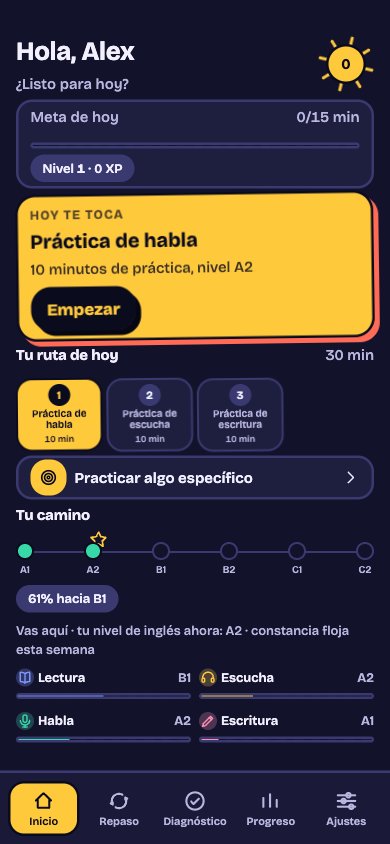
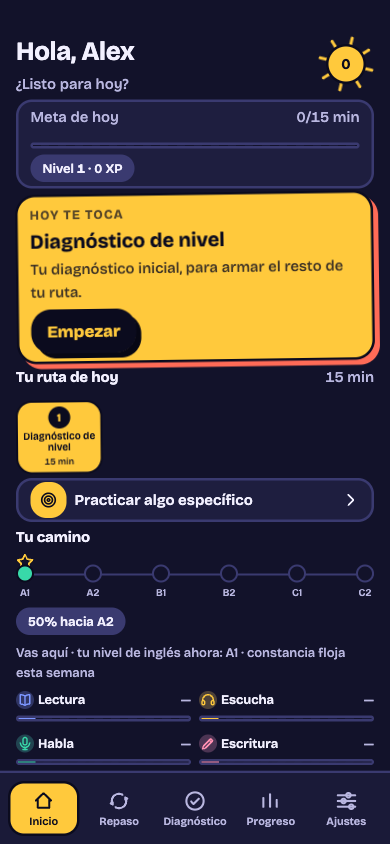
Practicar: pantalla nueva + corrige 10px de desborde en Inicio móvil
Practicar (js/screens/practicar.js): cuadrícula 2x2 escalonada de calcomanías
por habilidad (Lectura azul, Escucha amarillo, Habla menta, Escritura rosa)
con ícono, pastilla de nivel CEFR real y "Última vez: ...". Lectura/Escucha/
Escritura todavía no tienen pantalla propia (Fase C) -- quedan con
aria-disabled y pastilla "Próximamente", sin click, en vez de llevar a un
error. Debajo, filas tocables "Repaso de tarjetas" (vencidas reales) y
"Conversación". Registrada en index.html/sw.js (v22->v23).

Inicio: medí overflow real a 390x844 (10px, violaba "sin scroll") y lo
corregí bajando el padding-bottom reservado de la pantalla de --e-3 (12px) a
2px -- nav.tabs ya trae su propio padding abajo, era espacio duplicado.
Verificado en 0 también 1440x900/1280x720 (sin regresión).

Changed region(s): [[0.0308, 0.2464, 0.9846, 0.9242]]

diff --git a/js/screens/practicar.js b/js/screens/practicar.js
@@ -1,0 +1,114 @@
+/* Pantalla Practicar -- rediseño "Calcomanías oscuro" (Fase B). Para cuando Alex SÍ sabe qué
+   quiere practicar (a diferencia de Inicio, que decide por él): elige una habilidad o repaso/
+   conversación y entra directo a una sesión corta con el siguiente contenido disponible para
+   su nivel. Lo que se practica aquí SUMA a la meta del día (misma App.Datos.registrarSesion
+   que ya usa cada pantalla) pero NUNCA toca el plan ya guardado de hoy (ver
+   App.Datos.obtenerOCalcularPlanDeHoy: determinista, no se recalcula). */
+(function (global) {
+  "use strict";
+
+  var ICONO_POR_HABILIDAD = { lectura: "libro", escucha: "auriculares", habla: "microfono", escritura: "pluma" };
+  var NOMBRE_HABILIDAD = { lectura: "Lectura", escucha: "Escucha", habla: "Habla", escritura: "Escritura" };
+  var COLOR_POR_HABILIDAD = { lectura: "var(--azul)", escucha: "var(--amarillo)", habla: "var(--menta)", escritura: "var(--rosa)" };
+  var ORDEN_HABILIDADES = ["lectura", "escucha", "habla", "escritura"];
+  var ROTACION = [-1.4, 1, -0.8, 1.3]; // --r distinto por tarjeta, para el aire de collage que pide el spec
+
+  // Lectura/Escucha/Escritura todavía no tienen pantalla propia (Fase C) -- Habla sí. En vez
+  // de llevar a una ruta que no existe (el router ya lo tolera sin romperse, pero se vería
+  // como un error), esas 3 quedan sin click y con la pastilla "Próximamente" -- decisión mía
+  // ante la ambigüedad del spec, lo más simple que no rompe nada ni finge que algo funciona.
+  var RUTA_POR_HABILIDAD = { habla: "habla" };
+
+  function formatoUltimaVez(fechaISO, hoyISO) {
+    if (!fechaISO) return "Por empezar";
+    if (fechaISO === hoyISO) return "Última vez: hoy";
+    var ayerISO = global.App.Fecha.sumarDias(hoyISO, -1);
+    if (fechaISO === ayerISO) return "Última vez: ayer";
+    var dias = global.App.Fecha.diferenciaDias(fechaISO, hoyISO);
+    return "Última vez: hace " + dias + " días";
+  }
+
+  function render(el, ctx) {
+    var t = function (clave) { return global.App.I18n.texto(clave, ctx.nivelInterfaz, ctx.strings); };
+    var Iconos = global.App.Iconos;
+    var esc = global.App.Util.escaparHTML;
+    var Datos = global.App.Datos;
+
+    el.innerHTML = '<div class="estado-vacio">…</div>';
+
+    Promise.all([
+      Datos.obtenerUltimoDiagnostico(),
+      Datos.obtenerUltimaPracticaPorHabilidad(),
+      Datos.contarTarjetasRepaso(new Date()),
+      Datos.obtenerPreferencias()
+    ]).then(function (res) {
+      var diagnostico = res[0];
+      var ultimaPractica = res[1];
+      var tarjetas = res[2];
+      var prefs = res[3];
+      var hoyISO = global.App.Fecha.hoyISO();
+
+      var tarjetasHtml = ORDEN_HABILIDADES.map(function (h, i) {
+        var tieneRuta = !!RUTA_POR_HABILIDAD[h];
+        var nivelCEFR = diagnostico && diagnostico.porHabilidad[h] && diagnostico.porHabilidad[h].nivelCEFR;
+        var lineaEstado = tieneRuta ? formatoUltimaVez(ultimaPractica[h], hoyISO) : "Próximamente";
+        return (
+          '<' + (tieneRuta ? "button" : "div") + ' type="button" class="practicar-tarjeta calcomania' +
+          (tieneRuta ? " calcomania-presionable" : " practicar-tarjeta--proximamente") +
+          '" style="background:' + COLOR_POR_HABILIDAD[h] + ";--r:" + ROTACION[i] + "deg\"" +
+          (tieneRuta ? ' data-habilidad="' + h + '"' : ' aria-disabled="true"') +
+          ">" +
+          '<span class="practicar-icono">' + Iconos.svg(ICONO_POR_HABILIDAD[h], 24) + "</span>" +
+          '<span class="practicar-nombre">' + esc(NOMBRE_HABILIDAD[h]) + "</span>" +
+          (nivelCEFR ? '<span class="practicar-pastilla">' + esc(nivelCEFR) + "</span>" : "") +
+          '<span class="practicar-ultima-vez">' + esc(lineaEstado) + "</span>" +
+          "</" + (tieneRuta ? "button" : "div") + ">"
+        );
+      }).join("");
+
+      el.innerHTML =
+        '<div class="pantalla-vista pantalla-practicar">' +
+        '<button type="button" class="practicar-regreso" id="btn-regreso-inicio" aria-label="Volver a Inicio">' +
+        '<span class="practicar-regreso-flecha">' + Iconos.svg("chevron", 20) + "</span>" +
+        "</button>" +
+        '<h1>' + esc(t("practicar.titulo")) + "</h1>" +
+        '<p class="texto-tenue">' + esc(t("practicar.subtitulo")) + "</p>" +
+        '<div class="practicar-grid pop-entrada-escalonada">' + tarjetasHtml + "</div>" +
+        '<div class="practicar-filas">' +
+        '<button type="button" class="practicar-fila superficie-oscura" id="fila-repaso">' +
+        '<span class="icono-mosaico">' + Iconos.svg("repaso", 18) + "</span>" +
+        '<span class="practicar-fila-texto"><strong>' + esc(t("practicar.repaso_titulo")) + "</strong><span class=\"texto-tenue\">" +
+        tarjetas.vencidas + " tarjeta" + (tarjetas.vencidas === 1 ? "" : "s") + " vencida" + (tarjetas.vencidas === 1 ? "" : "s") + "</span></span>" +
+        Iconos.svg("chevron", 18) +
+        "</button>" +
+        '<button type="button" class="practicar-fila superficie-oscura" id="fila-conversacion">' +
+        '<span class="icono-mosaico">' + Iconos.svg("burbuja", 18) + "</span>" +
+        '<span class="practicar-fila-texto"><strong>' + esc(t("practicar.conversacion_titulo")) + "</strong><span class=\"texto-tenue\">" +
+        esc(t("practicar.conversacion_subtitulo")) + "</span></span>" +
+        Iconos.svg("chevron", 18) +
+        "</button>" +
+        "</div>" +
+        '<p class="practicar-nota texto-caption">' + esc(t("practicar.nota")) + "</p>" +
+        "</div>";
+
+      el.querySelector("#btn-regreso-inicio").addEventListener("click", function () {
+        location.hash = "#/inicio";
+      });
+      el.querySelectorAll("[data-habilidad]").forEach(function (boton) {
+        boton.addEventListener("click", function () {
+          location.hash = "#/" + RUTA_POR_HABILIDAD[boton.getAttribute("data-habilidad")];
+        });
+      });
+      el.querySelector("#fila-repaso").addEventListener("click", function () {
+        location.hash = "#/repaso";
+      });
+      el.querySelector("#fila-conversacion").addEventListener("click", function () {
+        location.hash = "#/conversacion";
+      });
+    });
+  }
+
+  global.App = global.App || {};
+  global.App.Screens = global.App.Screens || {};
+  global.App.Screens.practicar = { render: render };
+})(typeof window !== "undefined" ? window : globalThis);

diff --git a/css/styles.css b/css/styles.css
@@ -212,7 +212,7 @@ main {
    ".inicio-cuerpo" era la clase del Inicio del rediseño anterior ("cuaderno de bitácora");
    el Inicio guiado de Calcomanías usa ".pantalla-inicio-guiada". */
 main:has(> .pantalla-vista.pantalla-inicio-guiada) {
-  padding-bottom: var(--e-3);
+  padding-bottom: 2px; /* a 390x844 sobraban ~10px de scroll real (medido); nav.tabs ya trae su propio padding abajo */
 }
 
 /* Repaso: una sola ficha a la vez, con mucho aire alrededor si se deja pegada arriba (el
@@ -3373,6 +3373,142 @@ main:has(> .pantalla-habla) {
     grid-template-columns: 1fr 1fr;
     margin-top: 0;
     align-content: start;
+  }
+}
+
+/* ============================================================================
+   PRACTICAR -- rediseño "Calcomanías oscuro" (Fase B). Cuadrícula 2x2 (celular) / fila de 4
+   (laptop) de calcomanías grandes por habilidad, escalonadas en vertical para dar aire de
+   collage (nth-child par con un margin-top extra); debajo, dos filas tocables de superficie. */
+
+.pantalla-practicar {
+  display: flex;
+  flex-direction: column;
+  gap: var(--e-2);
+}
+
+.practicar-regreso {
+  width: var(--toque-minimo);
+  height: var(--toque-minimo);
+  display: flex;
+  align-items: center;
+  justify-content: center;
+  color: var(--texto);
+  margin-left: calc(var(--e-2) * -1); /* ancla visualmente al borde, el padding de main ya da aire */
+}
+
+.practicar-regreso-flecha {
+  display: inline-flex;
+  transform: rotate(180deg); /* el ícono "chevron" apunta a la derecha por defecto */
+}
+
+.practicar-grid {
+  display: grid;
+  grid-template-columns: 1fr 1fr;
+  gap: var(--e-3);
+  margin-top: var(--e-1);
+}
+
+.practicar-tarjeta {
+  padding: var(--e-3);
+  min-height: 140px;
+  display: flex;
+  flex-direction: column;
+  align-items: flex-start;
+  gap: var(--e-1);
+  text-align: left;
+  color: var(--tinta);
+}
+
+/* El aire de collage: la 2a y 4a tarjeta (Escucha, Escritura en el orden de ORDEN_HABILIDADES)
+   bajan un poco respecto a sus vecinas -- nth-child(2n) en la cuadrícula 2x2 cae justo en la
+   columna derecha de cada fila, que es donde el spec pide el escalón. */
+.practicar-grid > *:nth-child(2n) {
+  margin-top: var(--e-3);
+}
+
+.practicar-icono {
+  display: inline-flex;
+}
+
+.practicar-nombre {
+  font-size: var(--fs-heading);
+  font-weight: 700;
+}
+
+.practicar-pastilla {
+  background: var(--tinta);
+  color: var(--crema);
+  font-size: var(--fs-caption);
+  font-weight: 700;
+  padding: 2px var(--e-2);
+  border-radius: 999px;
+}
+
+.practicar-ultima-vez {
+  margin-top: auto;
+  font-size: var(--fs-caption);
+  font-weight: 600;
+  opacity: 0.75;
+}
+
+/* Lectura/Escucha/Escritura sin pantalla propia todavía (Fase C): se quedan sin click, con
+   "Próximamente" en vez de "Última vez" -- opacidad reducida para leerse como "no disponible
+   todavía" sin verse rotas ni a medio terminar. */
+.practicar-tarjeta--proximamente {
+  opacity: 0.55;
+  cursor: default;
+}
+
+.practicar-filas {
+  display: flex;
+  flex-direction: column;
+  gap: var(--e-2);
+}
+
+.practicar-fila {
+  display: flex;
+  align-items: center;
+  gap: var(--e-2);
+  padding: var(--e-2) var(--e-3);
+  min-height: var(--toque-minimo);
+  text-align: left;
+}
+
+.practicar-fila-texto {
+  flex: 1;
+  display: flex;
+  flex-direction: column;
+  min-width: 0;
+}
+
+.practicar-fila-texto strong {
+  font-size: var(--fs-small);
+}
+
+.practicar-nota {
+  margin: 0;
+  text-align: center;
+}
+
+@media (min-width: 900px) {
+  .practicar-grid {
+    grid-template-columns: repeat(4, 1fr);
+  }
+  .practicar-tarjeta {
+    min-height: 260px;
+    --r: 0deg !important; /* REGLA DE LAPTOP: nada de rotación en tarjetas grandes -- el "aire de collage" en laptop es solo el escalón vertical, no la inclinación */
+  }
+  /* "escalonadas verticalmente 20px entre pares" (spec): en una fila de 4, el par par
+     (columnas 2 y 4) baja 20px respecto al par impar (columnas 1 y 3). */
+  .practicar-grid > *:nth-child(2n) {
+    margin-top: 20px;
+  }
+  .practicar-filas {
+    flex-direction: row;
+  }
+  .practicar-filas > * {
+    flex: 1;
   }
 }
 

diff --git a/sw.js b/sw.js
@@ -4,7 +4,7 @@
    Ver DECISIONES.md D15: cómo se versiona la caché y qué hace falta hacer a mano en cada update. */
 "use strict";
 
-var CACHE_VERSION = "v22";
+var CACHE_VERSION = "v23";
 var CACHE_NAME = "app-ingles-" + CACHE_VERSION;
 
 var ARCHIVOS_APP_SHELL = [
@@ -41,6 +41,7 @@ var ARCHIVOS_APP_SHELL = [
   "js/screens/diagnostico.js",
   "js/screens/progreso.js",
   "js/screens/ajustes.js",
+  "js/screens/practicar.js",
   "js/screens/habla.js",
   "js/screens/conversacion.js",
   "data/i18n/strings.json",

diff --git a/index.html b/index.html
@@ -100,6 +100,7 @@
     <script src="js/screens/diagnostico.js"></script>
     <script src="js/screens/progreso.js"></script>
     <script src="js/screens/ajustes.js"></script>
+    <script src="js/screens/practicar.js"></script>
     <script src="js/app.js"></script>
   </body>
 </html>
